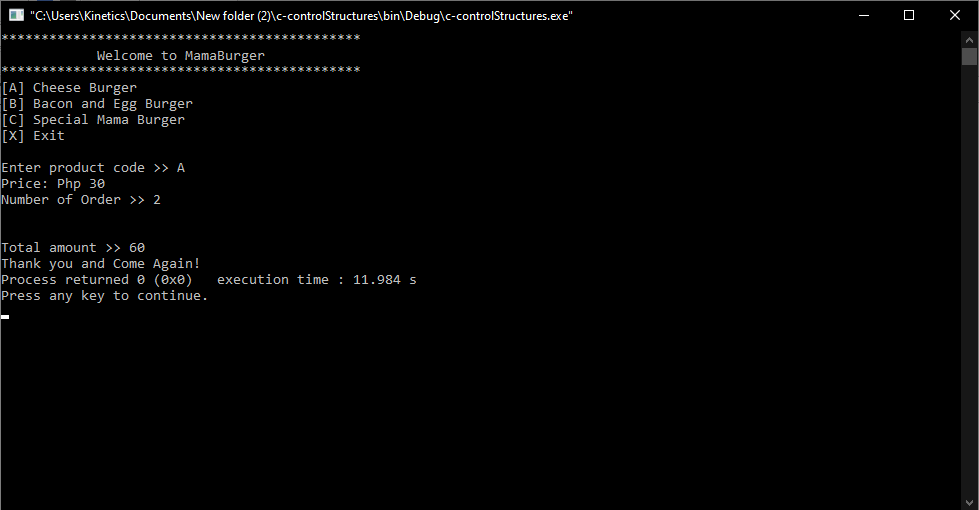
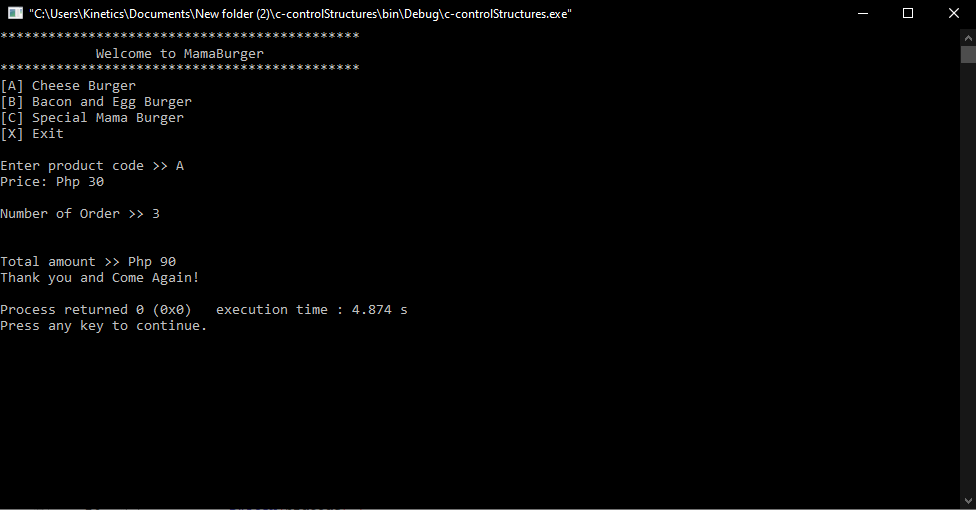
added X in the product code and added stdlib header to use exit func

diff --git a/main.c b/main.c
@@ -1,4 +1,5 @@
 #include <stdio.h>
+#include <stdlib.h> // for exit function
 
 int main()
 {
@@ -32,19 +33,22 @@ int main()
             case 'C':
                 prdAmount = 50;
                 break;
+            case 'X':
+                exit(0);
             default:
-                printf("Product code not in the list");
+                printf("Product code not in the list\n");
+                exit(0);
                 break;
 
            }
-           printf("Price: Php %d\n", prdAmount);
+           printf("Price: Php %d\n\n", prdAmount);
            printf("Number of Order >> ");
            scanf("%d", &numberOfOrder);
 
            total = numberOfOrder* prdAmount;
 
-           printf("\n\nTotal amount >> %d", total);
-           printf("\nThank you and Come Again!");
+           printf("\n\nTotal amount >> Php %d", total);
+           printf("\nThank you and Come Again!\n");
 
            return 0;
 }
